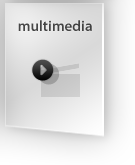
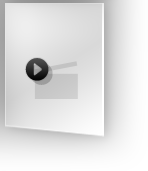
Cambiate icone del menu a destra della homapage e introdotta soluzione temporanea per allineare manualmente al centro i testi: la soluzione non va in generale bene (per via del fatto che testi in altre lingue potrebbero avere lunghezze differenti) ma per il momento va bene.

diff --git a/qml/bt_experience/HomePage.qml b/qml/bt_experience/HomePage.qml
@@ -200,21 +200,29 @@ source: "home.jpg"
               ButtonHomePageLink {
                   textFirst: false
                   source: "home/stanze.png"
+                  text: qsTr("stanze")
+                  textLeftMargin: 70
               }
 
               ButtonHomePageLink {
                   textFirst: false
                   source: "home/sistemi.png"
+                  text: qsTr("sistemi")
+                  textLeftMargin: 30
                   onClicked: Stack.openPage("Systems.qml")
               }
 
               ButtonHomePageLink {
                   source: "home/opzioni.png"
+                  textLeftMargin: 70
+                  text: qsTr("opzioni")
               }
 
 
               ButtonHomePageLink {
                   source: "home/multimedia.png"
+                  text: qsTr("multimedia")
+                  textLeftMargin: 18
               }
         }
     }

diff --git a/qml/bt_experience/ButtonHomePageLink.qml b/qml/bt_experience/ButtonHomePageLink.qml
@@ -5,6 +5,7 @@ Image {
     opacity: 0.8
     property string text: ""
     property bool textFirst: true
+    property int textLeftMargin: 0
     signal clicked
 
     MouseArea {
@@ -15,7 +16,7 @@ Image {
     Text {
           color: "#000000"
           text: parent.text
-          horizontalAlignment: Text.AlignHCenter
+//          horizontalAlignment: Text.AlignHCenter
           font.pixelSize: 13
           anchors.horizontalCenter: parent.horizontalCenter
           anchors.top: parent.textFirst ? parent.top : undefined
@@ -23,6 +24,8 @@ Image {
 
           anchors.bottom: parent.textFirst ? undefined : parent.bottom
           anchors.bottomMargin: parent.textFirst ? 0 : 30
+          anchors.left: parent.left
+          anchors.leftMargin: textLeftMargin
     }
 
 }
